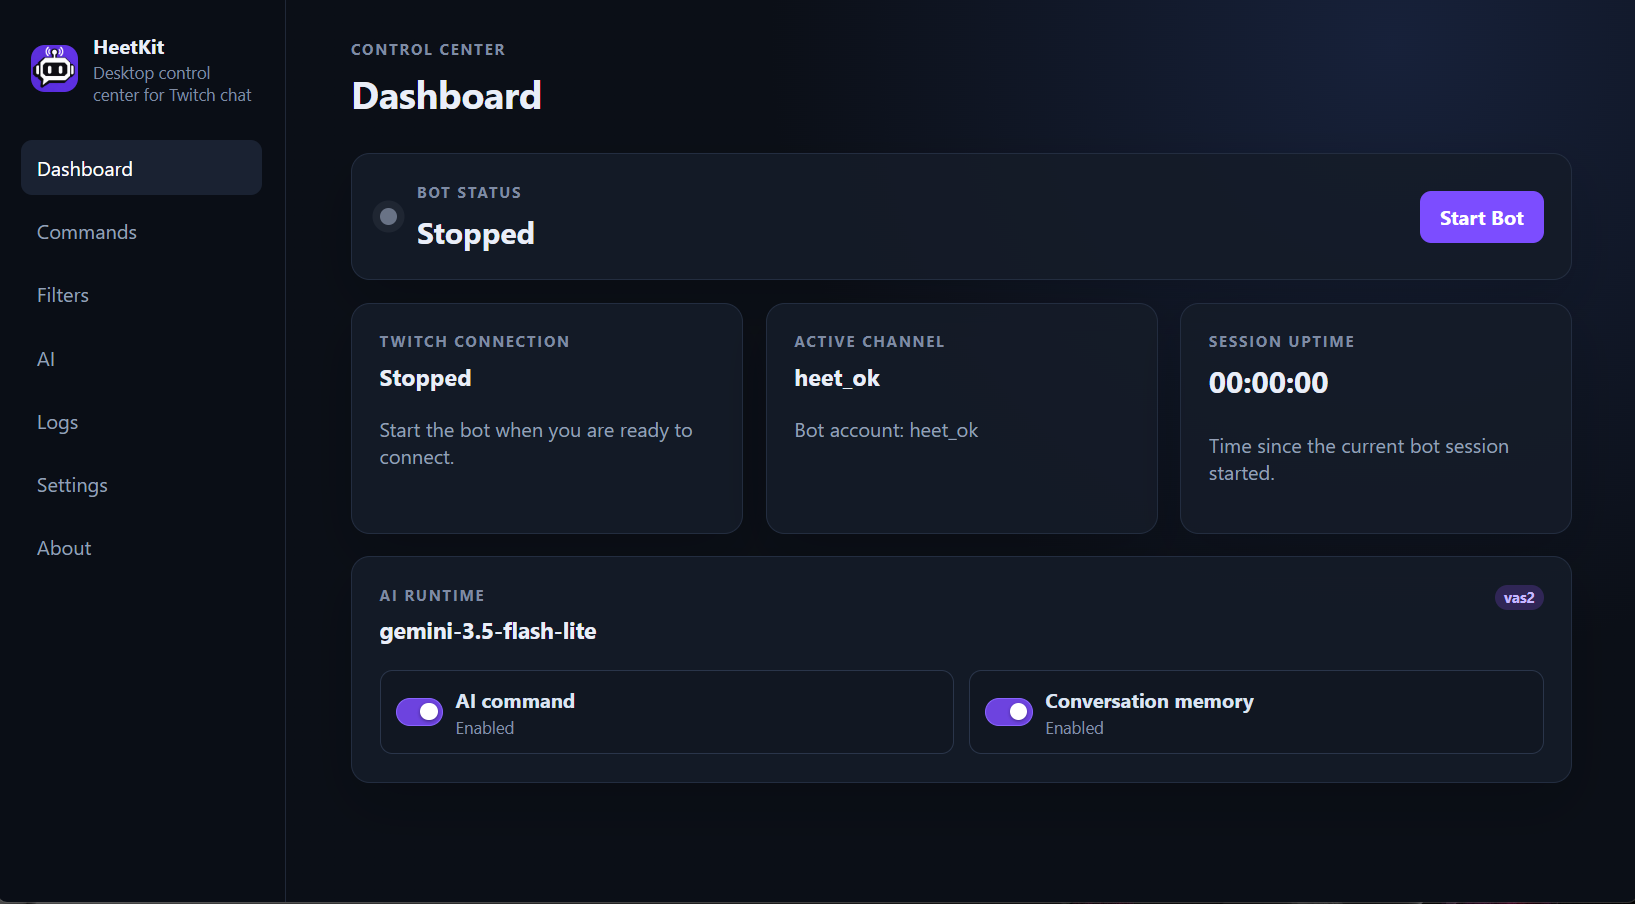
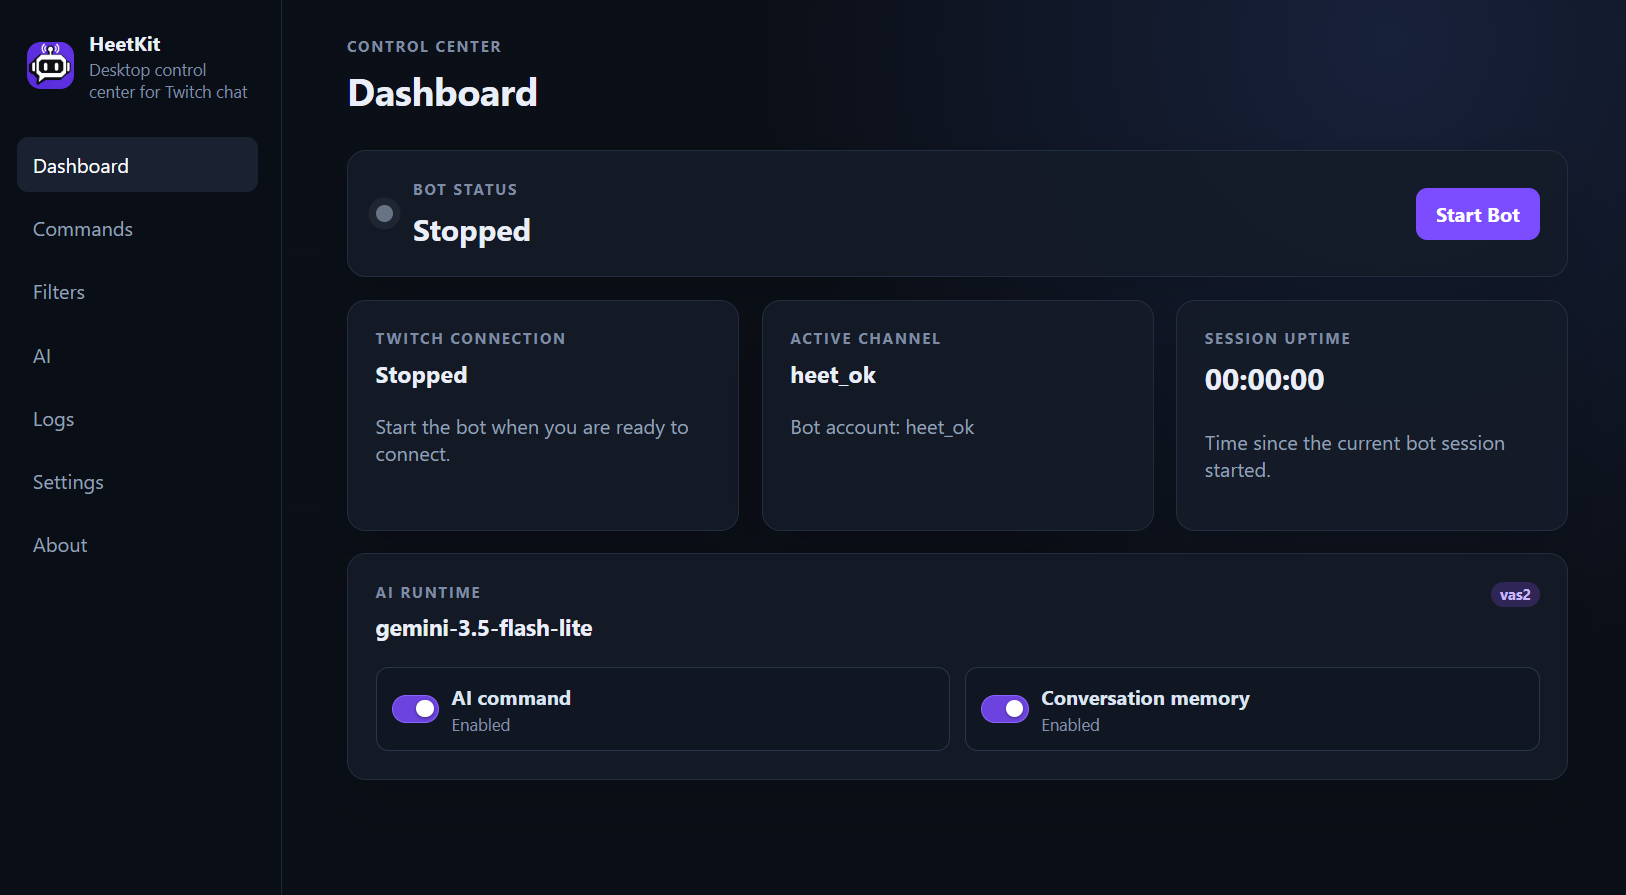
upd&release: stable version release

diff --git a/app/version.py b/app/version.py
@@ -1,3 +1,3 @@
 """Canonical HeetKit application version."""
 
-VERSION = "0.1.3"
+VERSION = "1.0.0"
